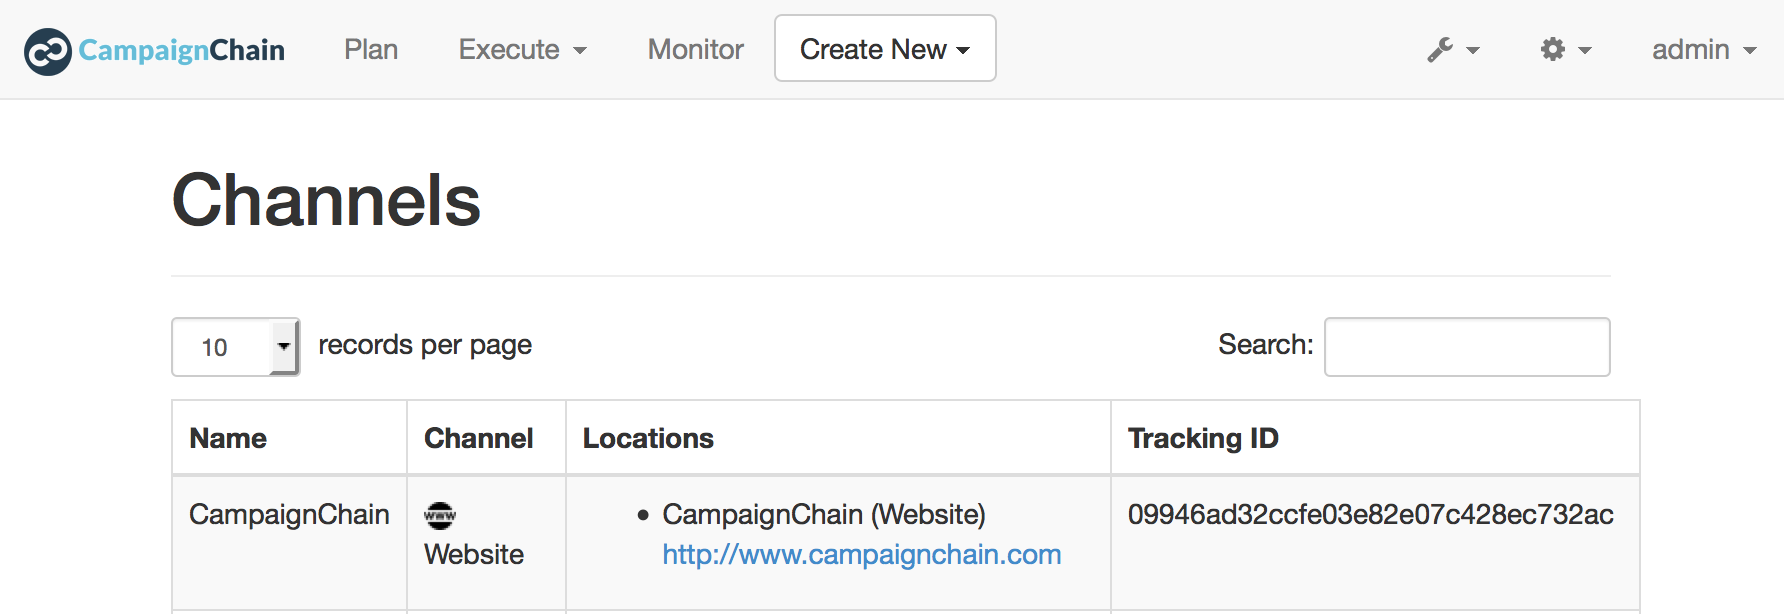
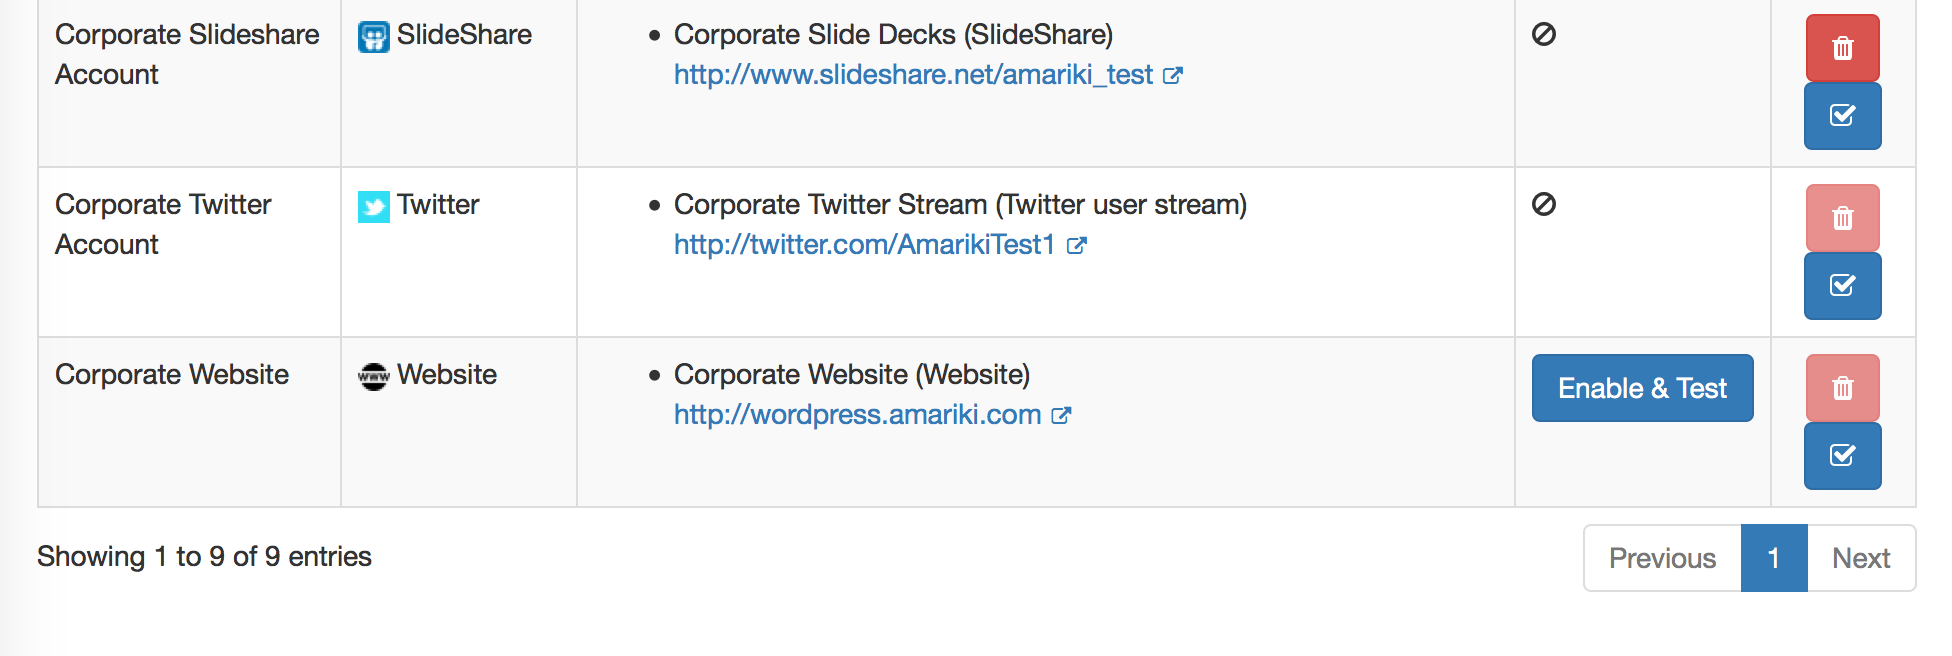
CampaignChain/campaignchain-docs#9 Update CTA configuration

diff --git a/open/administrator/configuration/cta.rst b/open/administrator/configuration/cta.rst
@@ -3,15 +3,17 @@ Call to Action Configuration
 
 To enable :ref:`CTA tracking <dev-book-overview-cta>` for a Channel, follow these steps:
 
-1. Connect Channel
-------------------
+1. Connect Trackable Channel
+----------------------------
 
-In the CampaignChain header menu, click the *Create New* button and select *Location*.
+In the CampaignChain header menu, click the *Create New* button and select a
+*Location* that allows you to add the tracking JavaScript code provided by
+CampaignChain.
 
 .. image:: /images/user/create_new_location.png
     :width: 600px
 
-Then, choose the appropriate Location from the drop-down list, e.g. *Website* to
+Choose the appropriate Location from the drop-down list, e.g. *Website* to
 include a Website into CTA tracking.
 
 .. image:: /images/administrator/select_new_website_location.png
@@ -23,28 +25,30 @@ base URL of a Website (you can omit adding pages of the Website).
 .. image:: /images/administrator/connect_new_website_channel.png
     :width: 600px
 
-Once you're done, CampaignChain will display a list of connected Channels to
-you. This list will include the unique Channel Tracking ID that has been assigned
-by CampaignChain to your new Channel. You will need this ID in the next step.
-
-.. image:: /images/administrator/channels_list.png
-    :width: 600px
-
 2. Include Tracking Code
 ------------------------
+
+Once you're done with connecting a trackable Channel, CampaignChain will display
+a list of connected Channels to you. This list will include a button to enable
+CTA tracking for trackable Channels.
+
+.. image:: /images/administrator/channels_list.png
+:width: 600px
+
+Clicking on such button will display a page with instructions to include the
+tracking snippet.
+
+.. image:: /images/administrator/enable_cta_tracking.png
+:width: 600px
 
 2.1 Directly within HMTL Source Code
 ~~~~~~~~~~~~~~~~~~~~~~~~~~~~~~~~~~~~
 
 If you own the Channel you plan to include and you also have full control
-to directly manipulate the HTML source, then you can include a JavaScript file
-provided by CampaignChain an all of your Channel's pages.
+to directly manipulate the HTML source, then you can include the JavaScript
+snippet provided on the "Enable CTA Tracking" page.
 
-The file is named *campaignchain_tracking.js* and once you have it included, it
-will take care of sending all the information for tracking CTAs to your
-CampaignChain instance.
-
-Include the file by adding the code mentioned below to your channel, ideally 
+Include the snippet by adding the code to your Channel, ideally
 right before the closing body element (i.e. *</body>* element) and make sure that
 it appears on all pages of the Channel.
 
@@ -59,33 +63,10 @@ a small piece of JavaScript or non-JavaScript code that it includes into your pa
 Google Tag Manager allows you to create a new *Custom HTML Tag* at the `GTM Web 
 interface`_. Paste the CampaignChain tracking code into the *HMTL* section. Make 
 sure the event is fired on all pages. The last step  is to publish your new tag in
-GTM. 
+GTM.
 
-2.3. The CampaignChain Tracking Code
-~~~~~~~~~~~~~~~~~~~~~~~~~~~~~~~~~~~~
-
-Independently from placing the tracking code diretly to the HTML source or using GTM,
-here is how CampaignChain's default JavaScript tracking code looks like:
-
-.. code-block:: html
-
-    <script type="text/javascript" src="//[CAMPAIGNCHAIN INSTALLATION]/tracking.js"></script>
-    <script type="text/javascript">
-        cc('[CAMPAIGNCHAIN CHANNEL TRACKING ID]');
-    </script>
-
-Replace ``[CAMPAIGNCHAIN INSTALLATION]`` with the URL of the root of your CampaignChain
-installation, e.g. *//campaignchain.example.com/tracking.js*.
-
-.. note::
-    Please make sure that you omit ``http`` or ``https``, so that the script can
-    work with either protocol.
-
-Next, replace ``[CAMPAIGNCHAIN CHANNEL TRACKING ID]`` with the ID generated by
-CampaignChain for your channel.
-
-2.4 Anonymizing or Branding the Tracking Script
-~~~~~~~~~~~~~~~~~~~~~~~~~~~~~~~~~~~~~~~~~~~~~~~
+3. Anonymizing or Branding the Tracking Script
+----------------------------------------------
 
 If you want to hide from visitors to your CTA-tracked Channel, that you are
 using CampaignChain or you want to custom brand the tracking code, then we have
